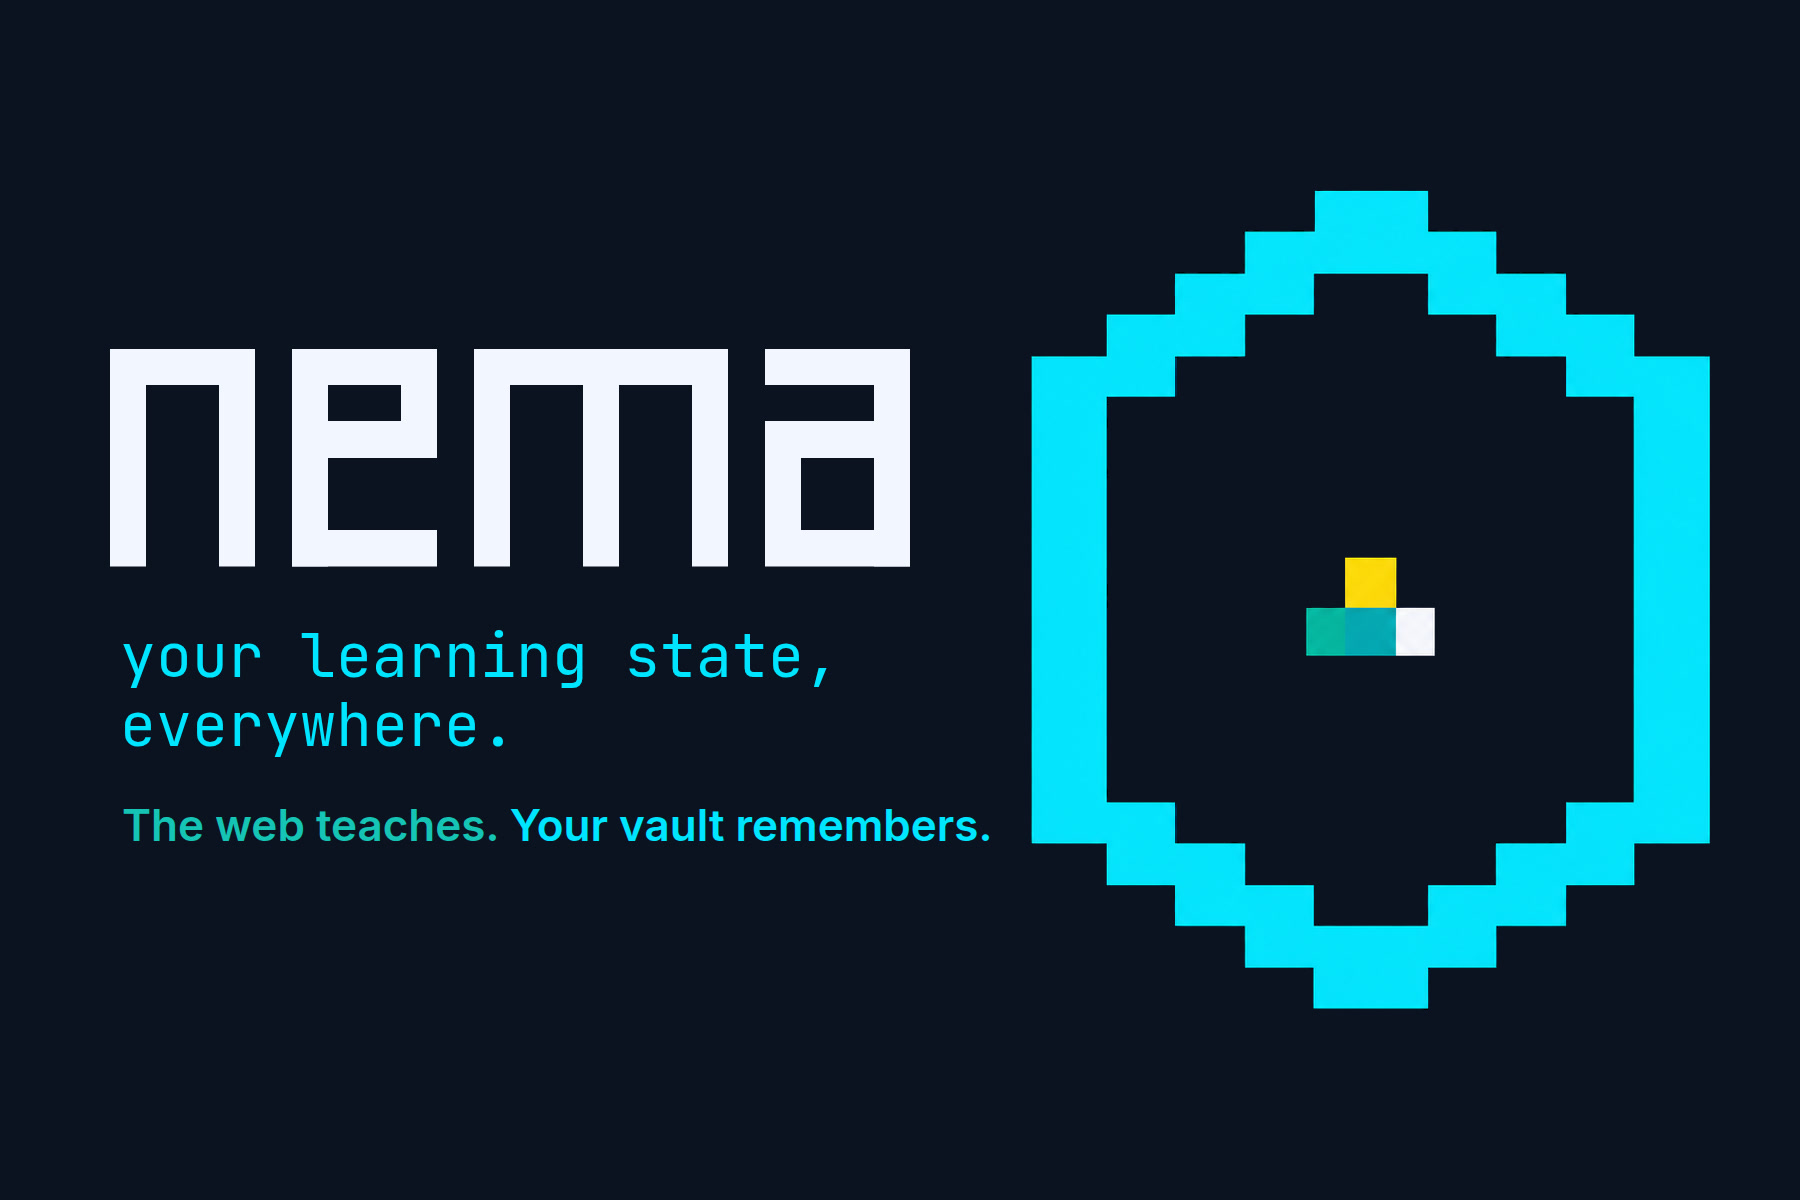
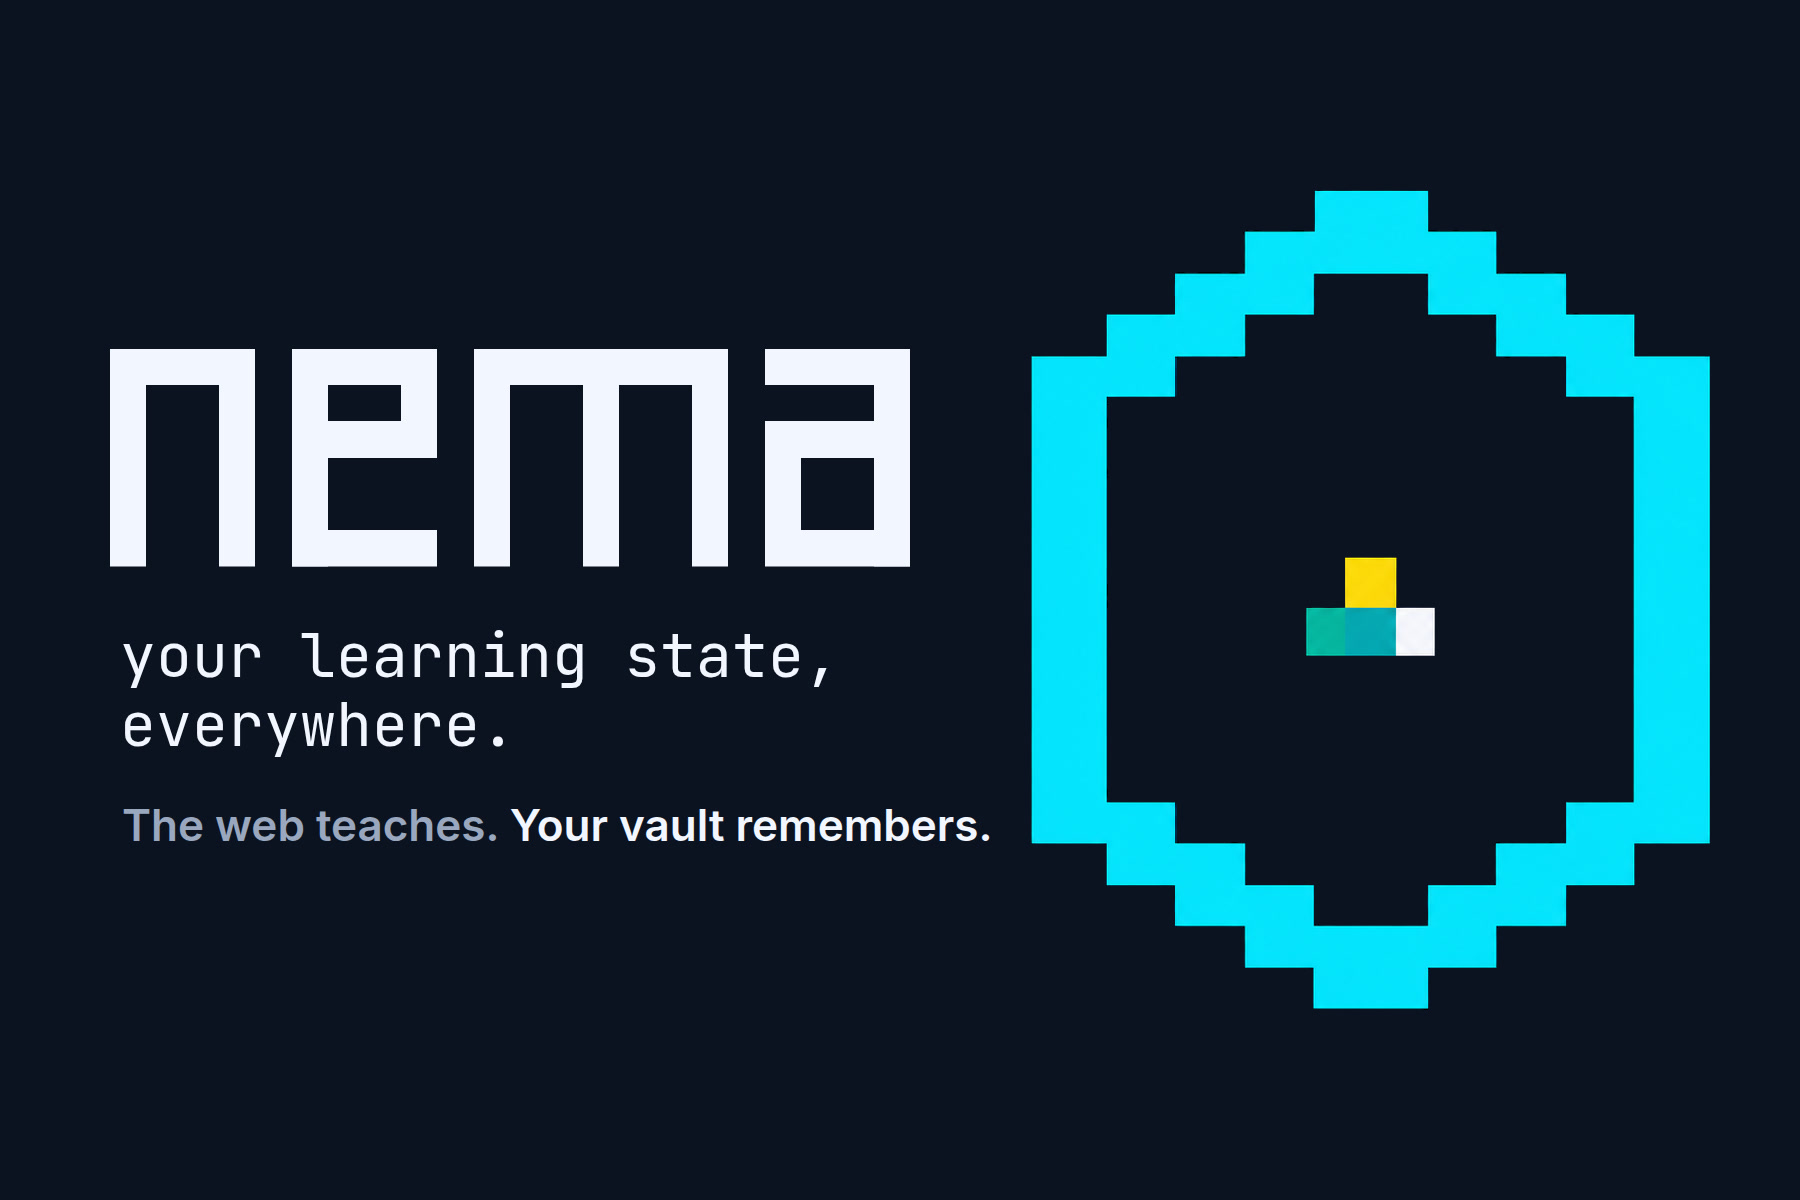
thumbnail: text in off white, cyan only in the art
Claude-Session: https://claude.ai/code/session_01AfeggrhBqzmN8guag9N5jj

Changed region(s): [[0.0622, 0.5242, 0.4356, 0.6167], [0.0622, 0.6783, 0.56, 0.7092], [0.4356, 0.555, 0.4667, 0.5858]]

diff --git a/docs/assets/devpost-thumbnail.html b/docs/assets/devpost-thumbnail.html
@@ -9,9 +9,9 @@
   .copy { position: absolute; left: 110px; top: 50%; transform: translateY(-50%); width: 900px; }
   .word { width: 800px; color: #F2F6FF; }
   .word svg { width: 100%; height: auto; display: block; }
-  .tag { margin: 54px 0 0 10px; font-family: var(--font-mono, "JetBrains Mono", monospace); font-size: 60px; color: #00E5FF; line-height: 1.15; }
+  .tag { margin: 54px 0 0 10px; font-family: var(--font-mono, "JetBrains Mono", monospace); font-size: 60px; color: #F2F6FF; line-height: 1.15; }
   .sub { margin: 40px 0 0 12px; font-size: 44px; line-height: 1.2; font-weight: 600; color: #F2F6FF; }
-  .sub .t { color: #15C4B4; } .sub .v { color: #00E5FF; }
+  .sub { color: #9AA8BF; } .sub .v { color: #F2F6FF; }
 </style>
 <div class="card">
   <img class="art" src="ART_URL">
